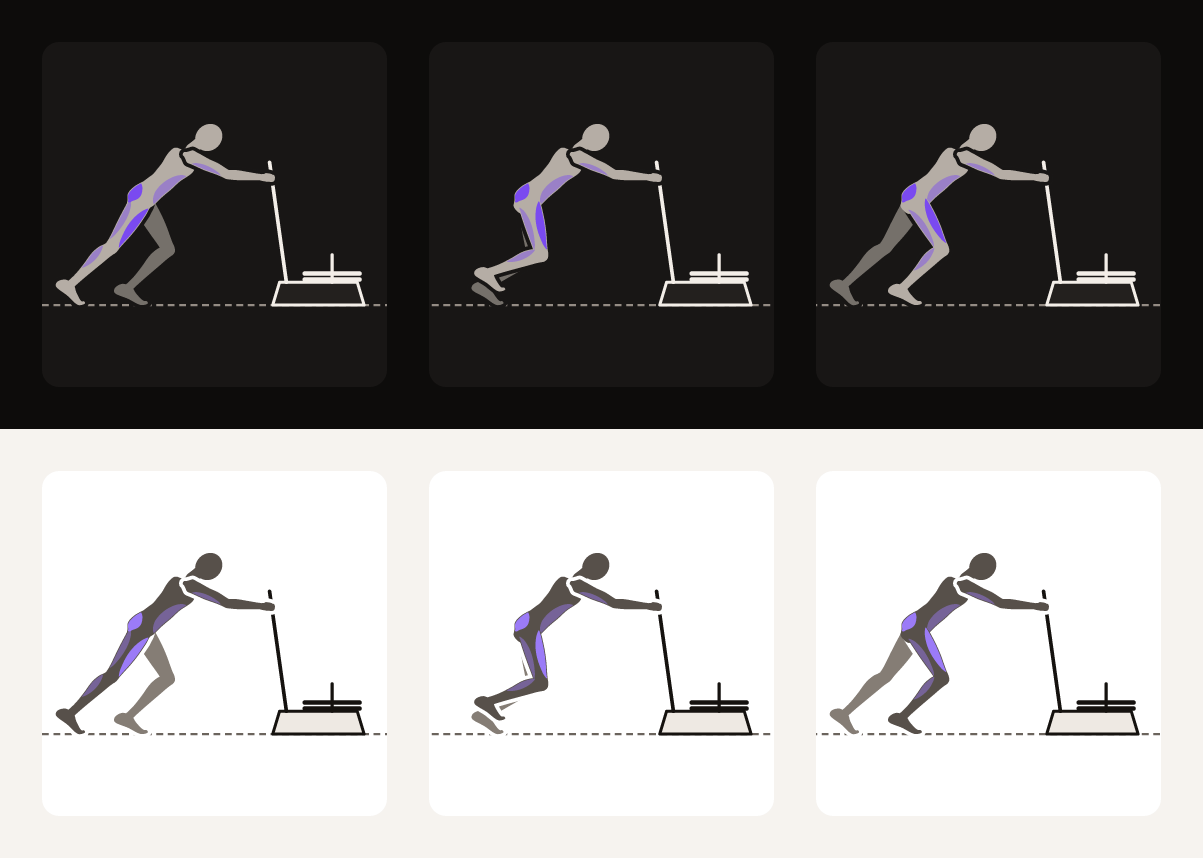
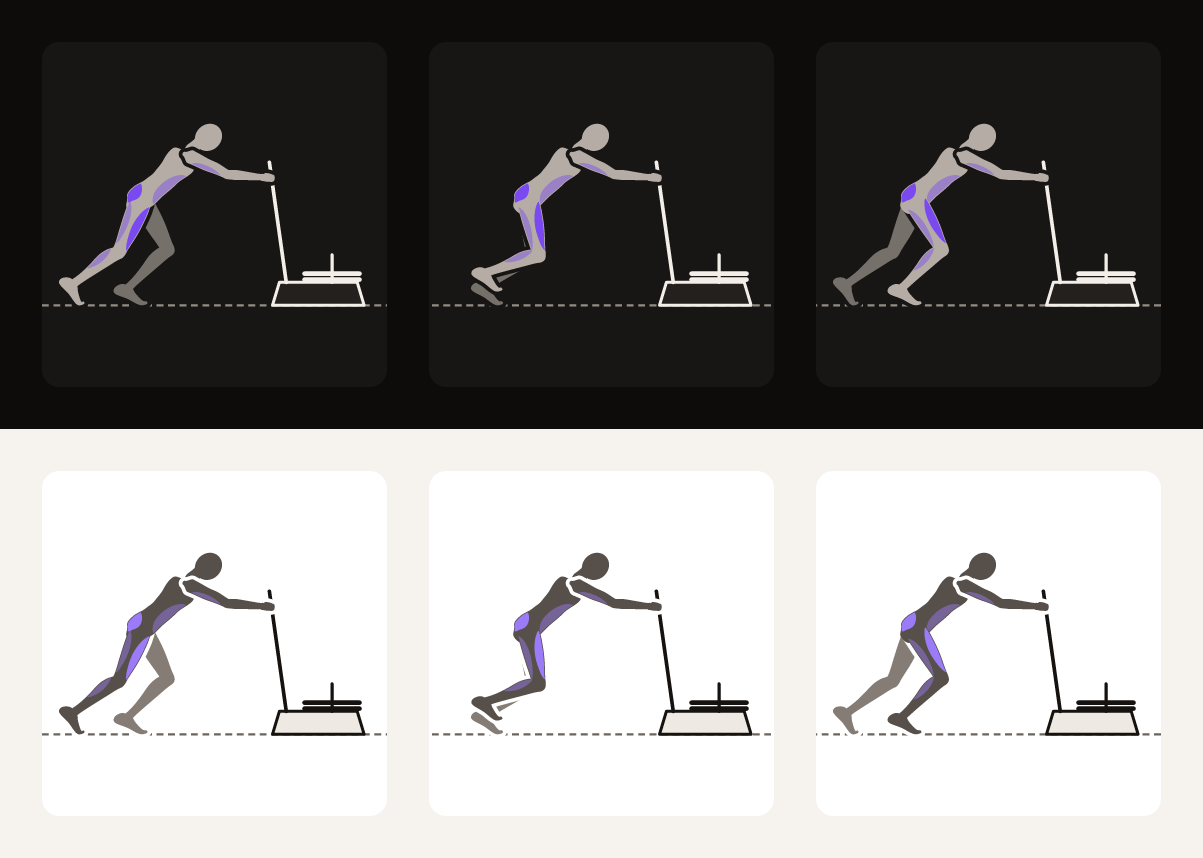
Guides: sled push feet leave and land at floor speed, heel rises before toe-off (draft pose change)
- `ground.matchFloorSpeed: true` (E2b): a foot lifts off and lands moving
  with the floor, so the ankle no longer stops dead at every step
  (contact velocity jump 0.262 -> 0.000 H/s).
- Pose change for Ben: instead of the plan's longer, forward-shifted stride
  (drive knee 39 deg, hip 28 deg at toe-off), the stride is unchanged and
  the heel rises more before toe-off (sole 40 -> 50 deg at lift-off), with
  the swing waypoint 0.01 H further back (-0.13 -> -0.14). Drive knee 14.5 ->
  31 deg, hip 12 -> 21 deg: closer to the brief's straight drive line than
  the plan's stride, and "push off the ball of the foot, heel up". A drive
  leg straighter than about 30 deg whips the knee at lift-off (1119 deg/s
  with the stance rule on).
- motion.test.ts: the "foot stops dead" test now builds its fixture by
  turning matchFloorSpeed off on the committed guide.

guide:motion (HEAD -> now): 4 failing -> 0. Knee frame step 41.6% ->
38.8% of peak; knee speed around lift-off 308 -> 144 deg/s; toe-off reach
0.992 -> 0.963.

Claude-Session: https://claude.ai/code/session_01WQGwPu3Uq9qS169xjbbsDx

diff --git a/packages/catalogue/test/motion.test.ts b/packages/catalogue/test/motion.test.ts
@@ -269,6 +269,13 @@ describe('C2 spline slopes (E2a)', () => {
   });
 });
 
+/** The committed sled push with the stance rule turned off (how it was before E2b), as a fixture. */
+function sledWithoutStance(): Guide {
+  const raw = JSON.parse(readFileSync(join(GUIDES, 'sled-push', 'guide.json'), 'utf8')) as { ground: Record<string, unknown> };
+  delete raw.ground.matchFloorSpeed;
+  return GuideSchema.parse(raw);
+}
+
 /** The committed sled push with the stance rule and the plan's stride (§4.10), as a fixture. */
 function sledWithStance(stride: boolean): Guide {
   const raw = JSON.parse(readFileSync(join(GUIDES, 'sled-push', 'guide.json'), 'utf8')) as { ground: Record<string, unknown>; keyframes: { ik?: Record<string, Record<string, unknown>> }[] };
@@ -285,8 +292,8 @@ function sledWithStance(stride: boolean): Guide {
 }
 
 describe('feet on a scrolling floor (E2b)', () => {
-  it('without matchFloorSpeed a foot stops dead where it leaves the floor (the sled today)', () => {
-    const p = prepareGuide(committed('sled-push'));
+  it('without matchFloorSpeed a foot stops dead where it leaves the floor (the sled before the stance rule)', () => {
+    const p = prepareGuide(sledWithoutStance());
     const m = measureMotion(p, { n: 600 }).metrics.find((x) => x.id === 'C2');
     expect(m?.ok).toBe(false);
     expect(m?.value).toBeCloseTo(0.262, 2);
